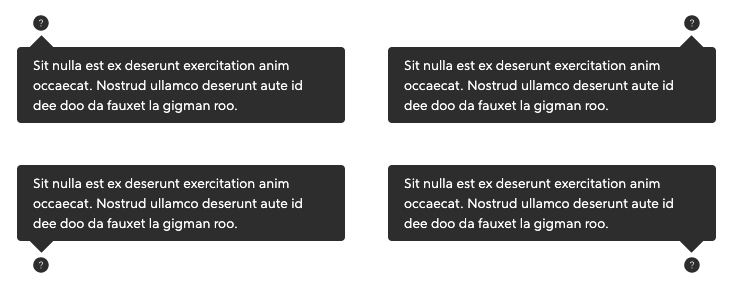
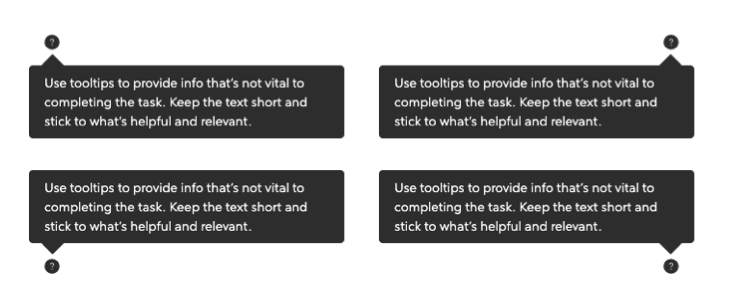
tooltip sample text

diff --git a/angular/projects/spark-angular/src/lib/components/sprk-tooltip/sprk-tooltip.stories.ts b/angular/projects/spark-angular/src/lib/components/sprk-tooltip/sprk-tooltip.stories.ts
@@ -33,8 +33,8 @@ export const defaultStory = () => ({
     <sprk-tooltip
       iconAdditionalClasses="sprk-c-Icon--filled"
     >
-      Sit nulla est ex deserunt exercitation anim occaecat.
-      Nostrud ullamco deserunt aute id dee doo da fauxet la gigman roo.
+      Use tooltips to provide info that’s not vital to completing the task.
+      Keep the text short and stick to what’s helpful and relevant.
     </sprk-tooltip>
   `,
 });

diff --git a/html/components/tooltip.stories.js b/html/components/tooltip.stories.js
@@ -43,8 +43,8 @@ export const defaultStory = () => {
         id="tooltip_1"
         role="tooltip"
       >
-        Sit nulla est ex deserunt exercitation anim occaecat. Nostrud ullamco
-        deserunt aute id dee doo da fauxet la gigman roo.
+        Use tooltips to provide info that’s not vital to completing the task.
+        Keep the text short and stick to what’s helpful and relevant.
       </span>
     </span>
   `;

diff --git a/react/src/components/tooltip/SprkTooltip.stories.js b/react/src/components/tooltip/SprkTooltip.stories.js
@@ -14,8 +14,8 @@ export default {
 
 export const defaultStory = () => (
   <SprkTooltip iconAdditionalClasses="sprk-c-Icon--filled">
-    Sit nulla est ex deserunt exercitation anim occaecat. Nostrud ullamco
-    deserunt aute id dee doo da fauxet la gigman roo.
+    Use tooltips to provide info that’s not vital to completing the task.
+    Keep the text short and stick to what’s helpful and relevant.
   </SprkTooltip>
 );
 
